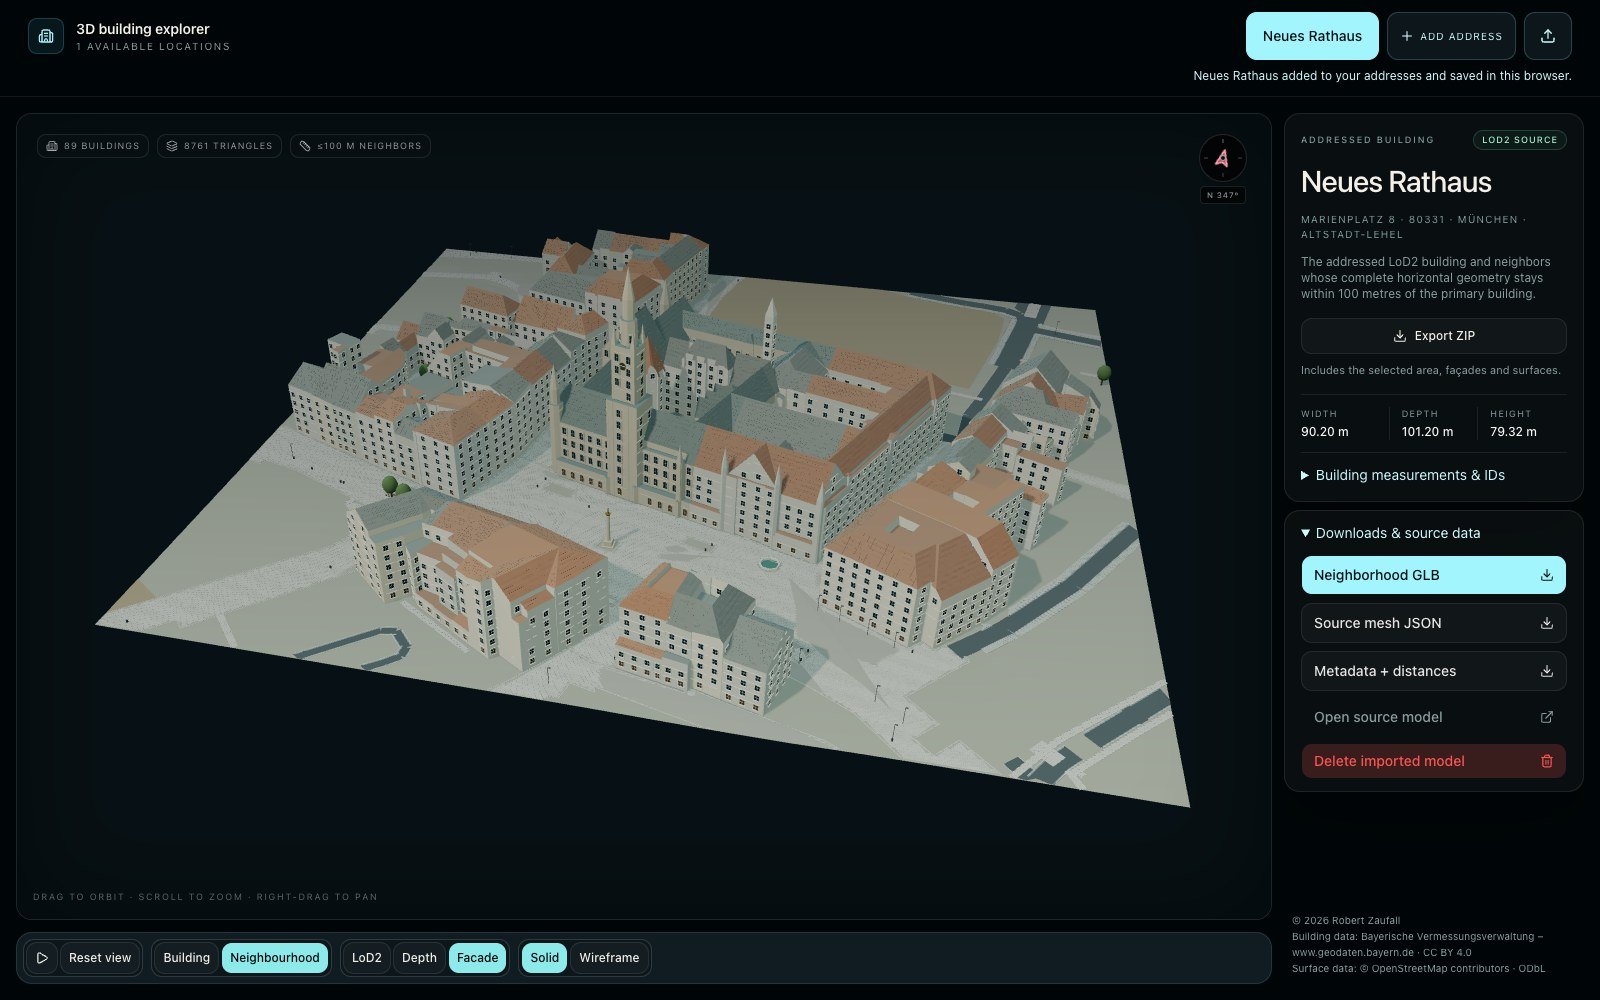
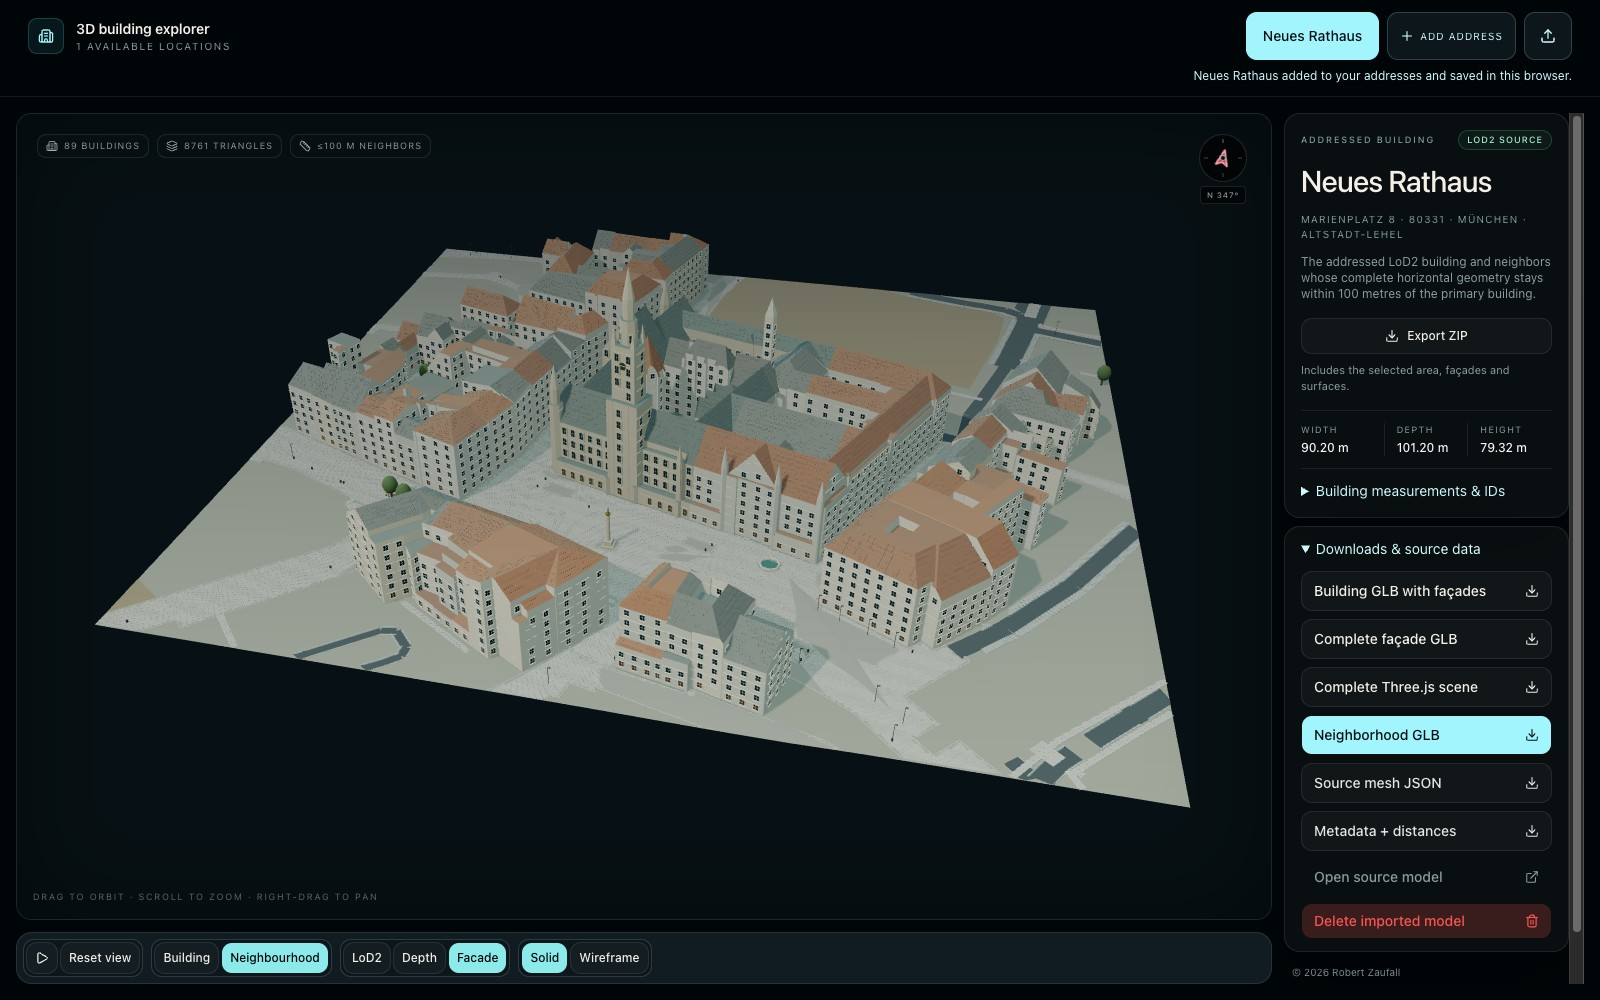
Refresh public screenshots for facade and complete-scene downloads

Changed region(s): [[0.8125, 0.093, 1.0, 0.992], [0.8125, 0.372, 0.9375, 0.496], [0.875, 0.31, 0.9062, 0.341]]

diff --git a/README.md b/README.md
@@ -90,7 +90,7 @@ selects it. Add `&view=reconstruction` to select Facade on initial load.
 
 ### Screenshots
 
-Refreshed on **5 September 2026** from the live homepage at **1600 × 1000**,
+Refreshed on **7 September 2026** from the live homepage at **1600 × 1000**,
 using a fresh browser session with only the public Rathaus 100 m sample. Rotation
 was paused for consistent captures. Private addresses and imported private data
 are excluded. Click an image to inspect it at full size; facade details are
